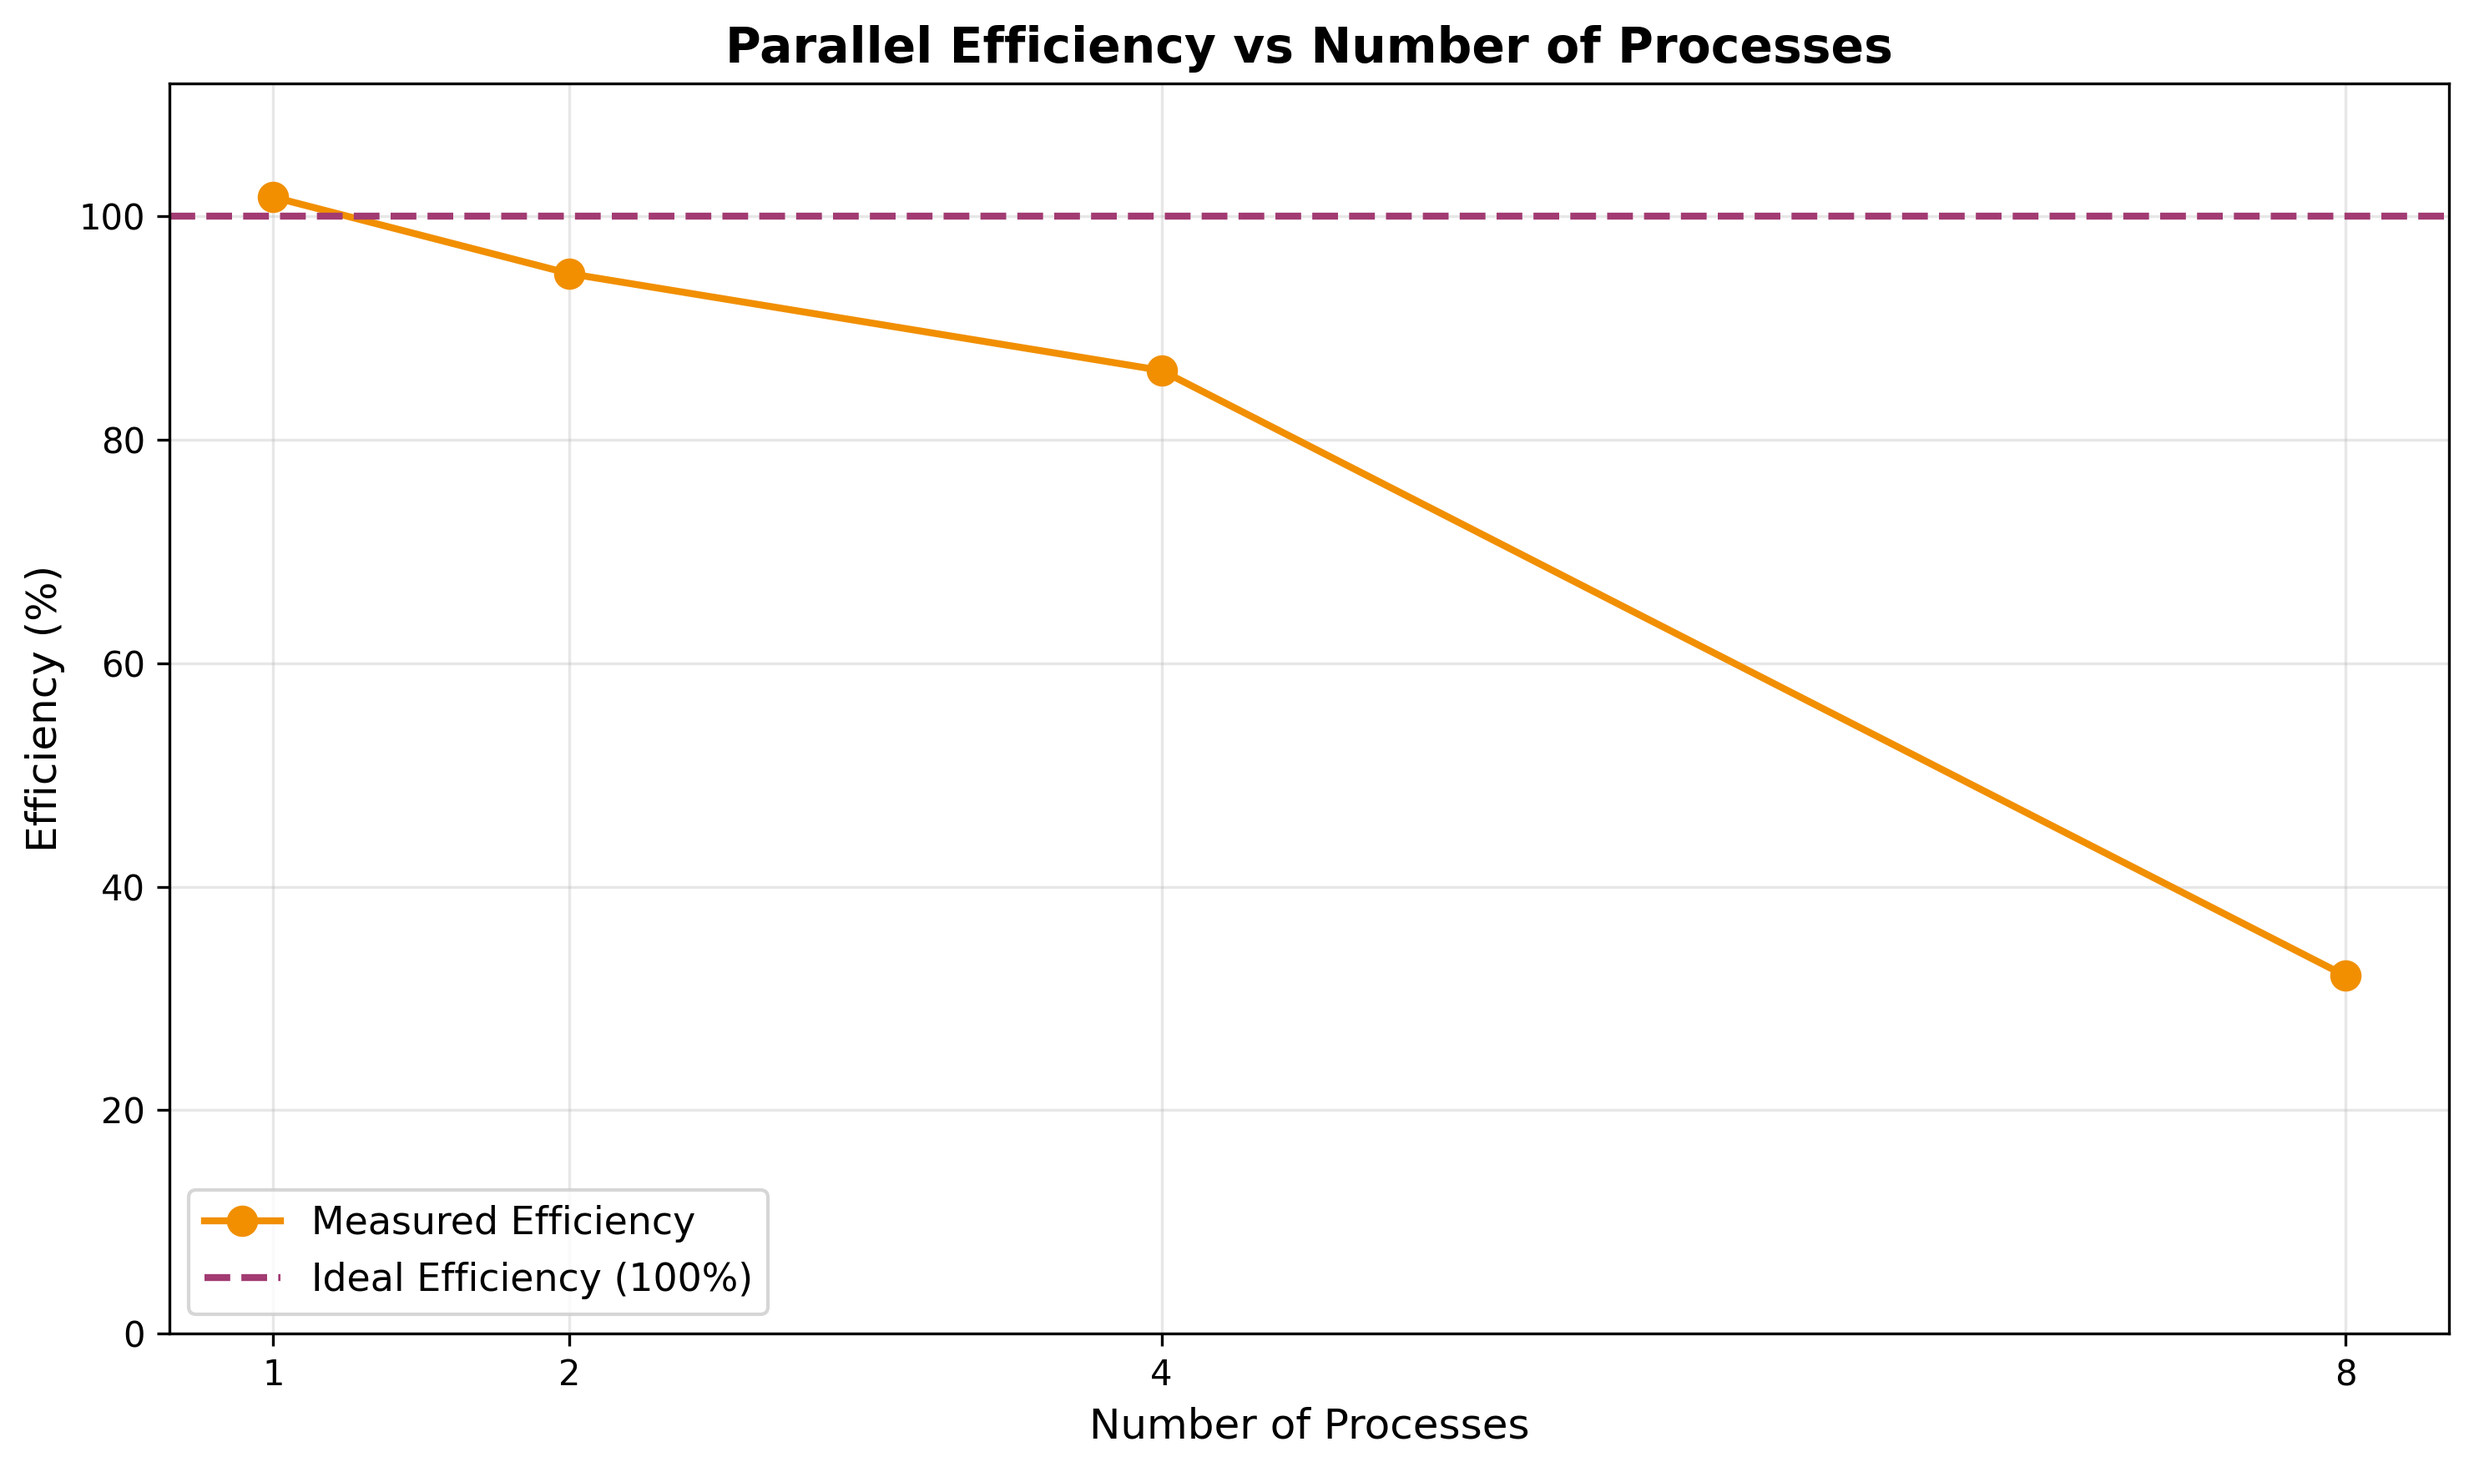
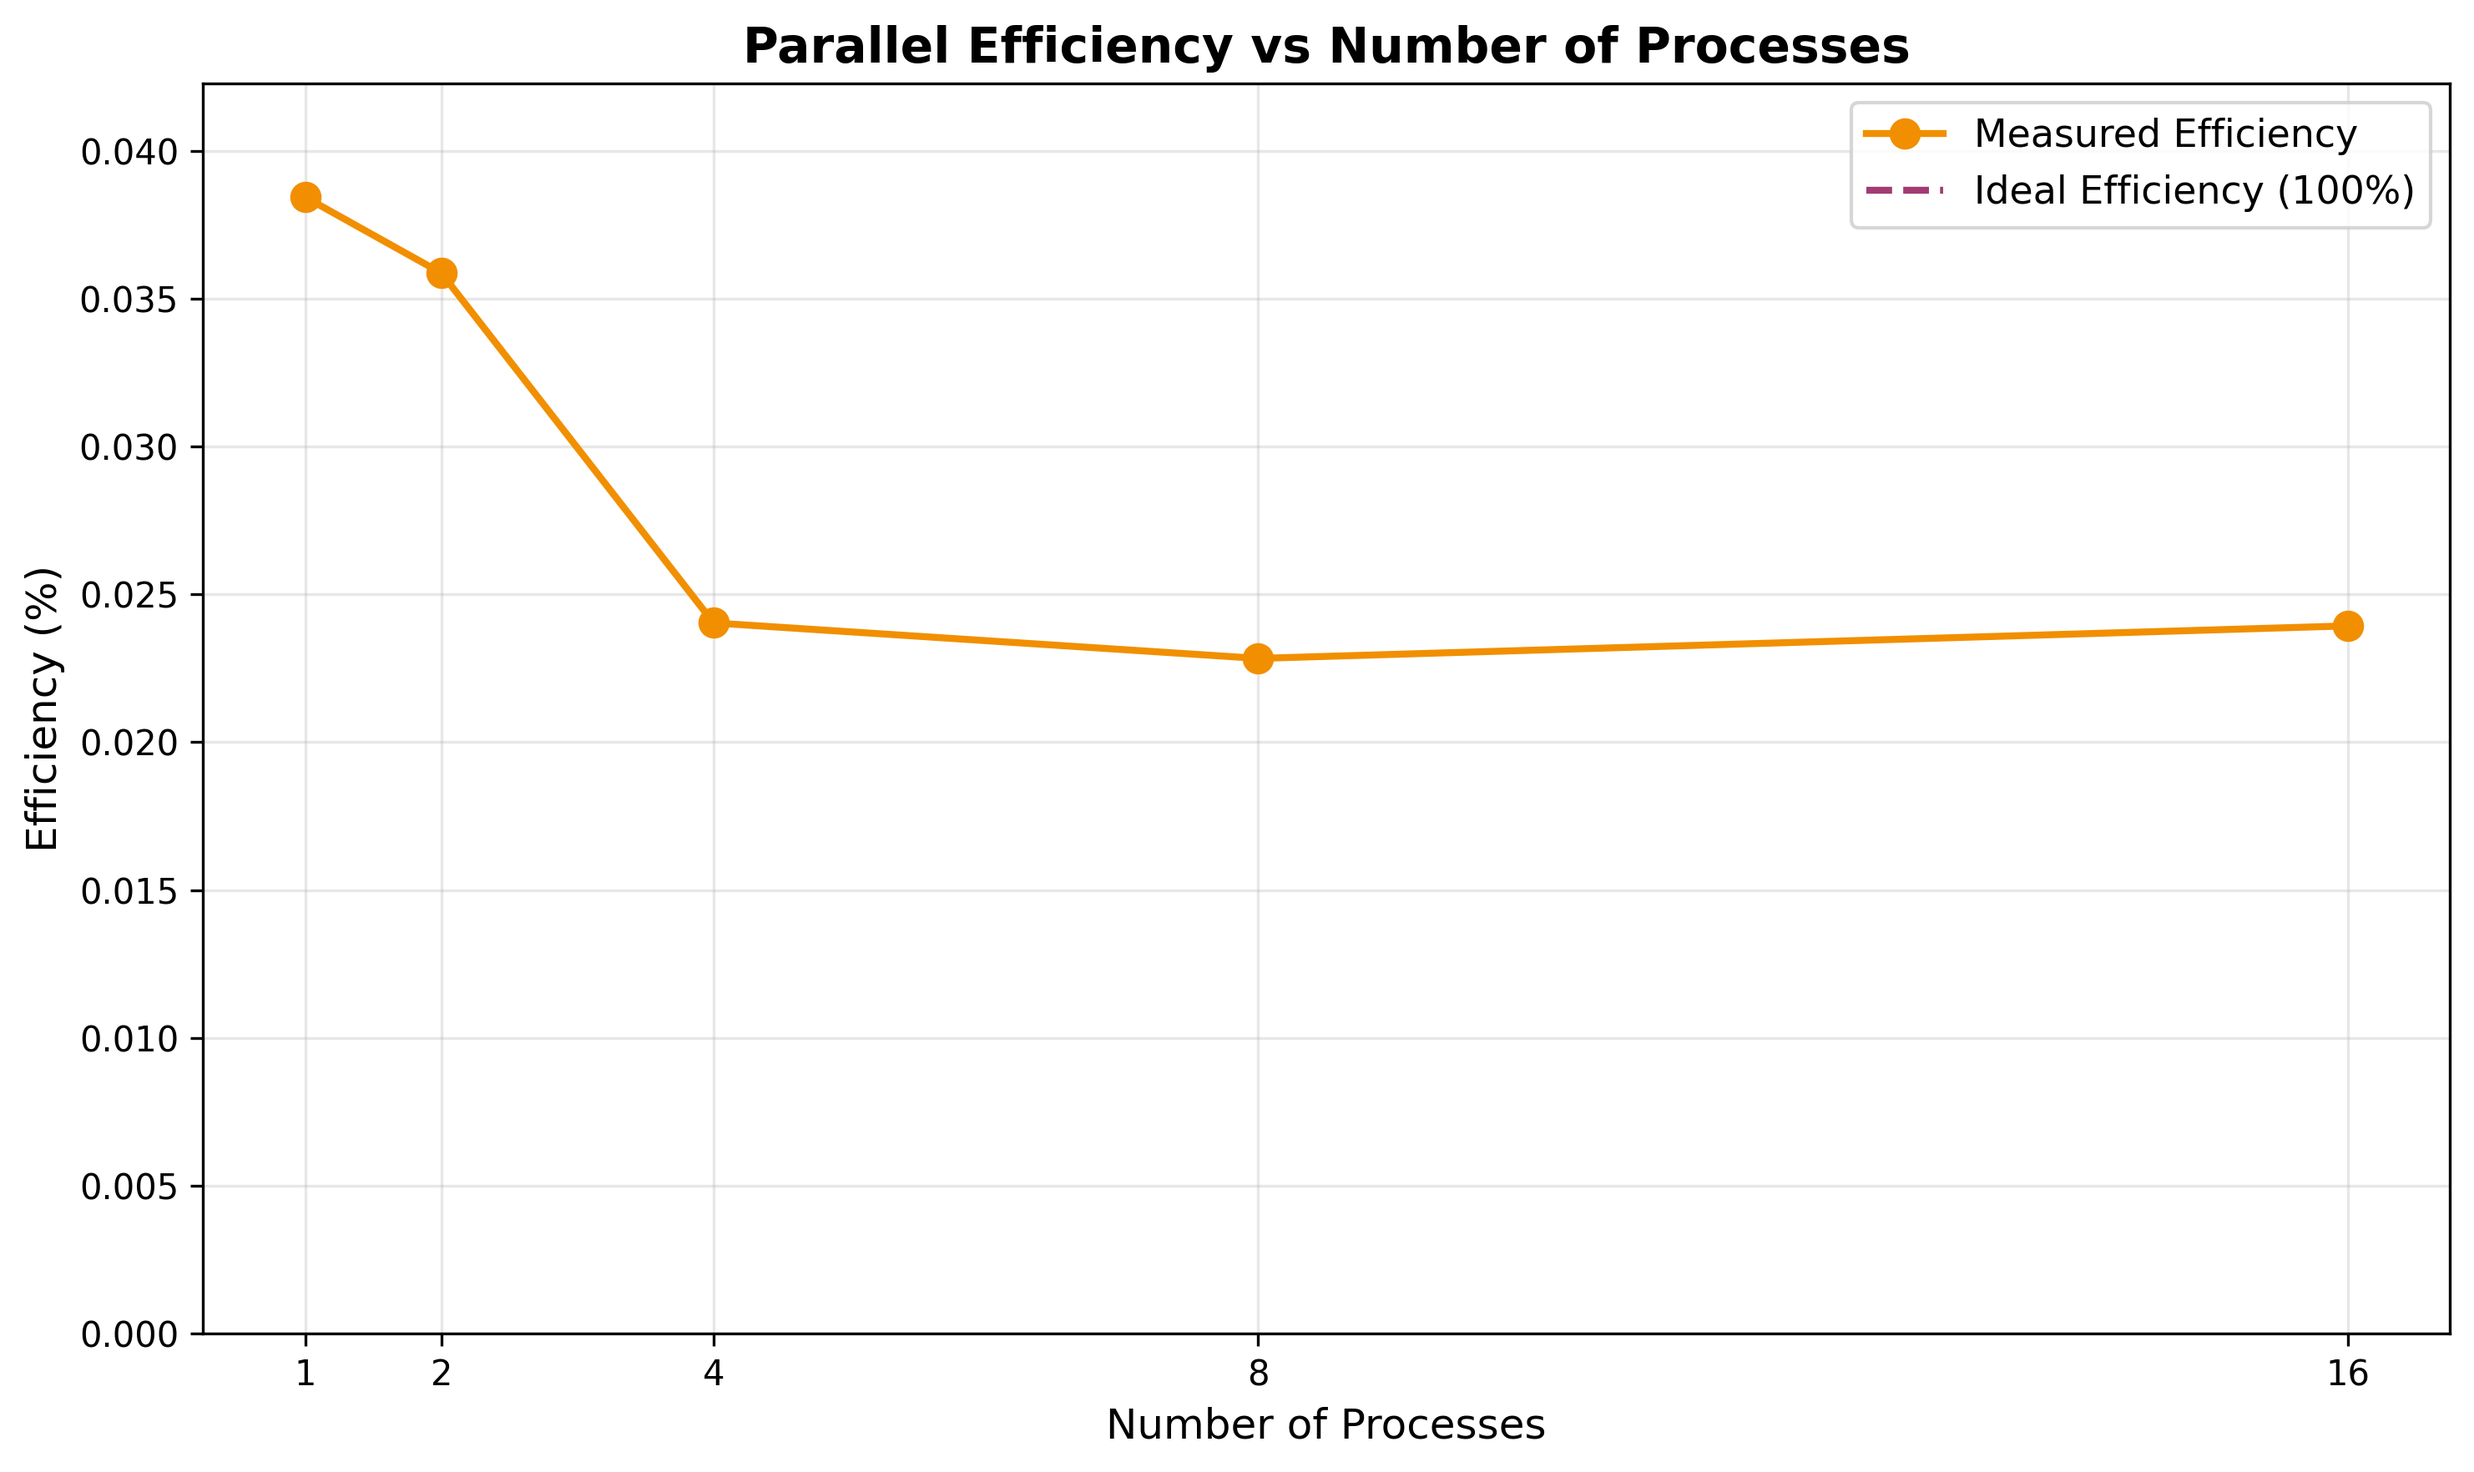
Fixes imgs

diff --git a/src/plot_results.py b/src/plot_results.py
@@ -6,7 +6,7 @@ import os
 PROJECT_ROOT = os.path.abspath(os.path.join(os.path.dirname(__file__), '..'))
 RESULTS_DIR = os.path.join(PROJECT_ROOT, 'results')
 
-def load_results(filename='benchmark_results.json'):
+def load_results(filename='benchmark_strong_scaling.json'):
     """Carga los resultados del benchmark desde results/ por defecto"""
     if not os.path.isabs(filename):
         filename = os.path.join(RESULTS_DIR, filename)

diff --git a/src/plot_theory_comparison.py b/src/plot_theory_comparison.py
@@ -6,7 +6,7 @@ import os
 PROJECT_ROOT = os.path.abspath(os.path.join(os.path.dirname(__file__), '..'))
 RESULTS_DIR = os.path.join(PROJECT_ROOT, 'results')
 
-def load_results(filename='benchmark_results.json'):
+def load_results(filename='benchmark_strong_scaling.json'):
     if not os.path.isabs(filename):
         filename = os.path.join(RESULTS_DIR, filename)
     with open(filename, 'r') as f:
